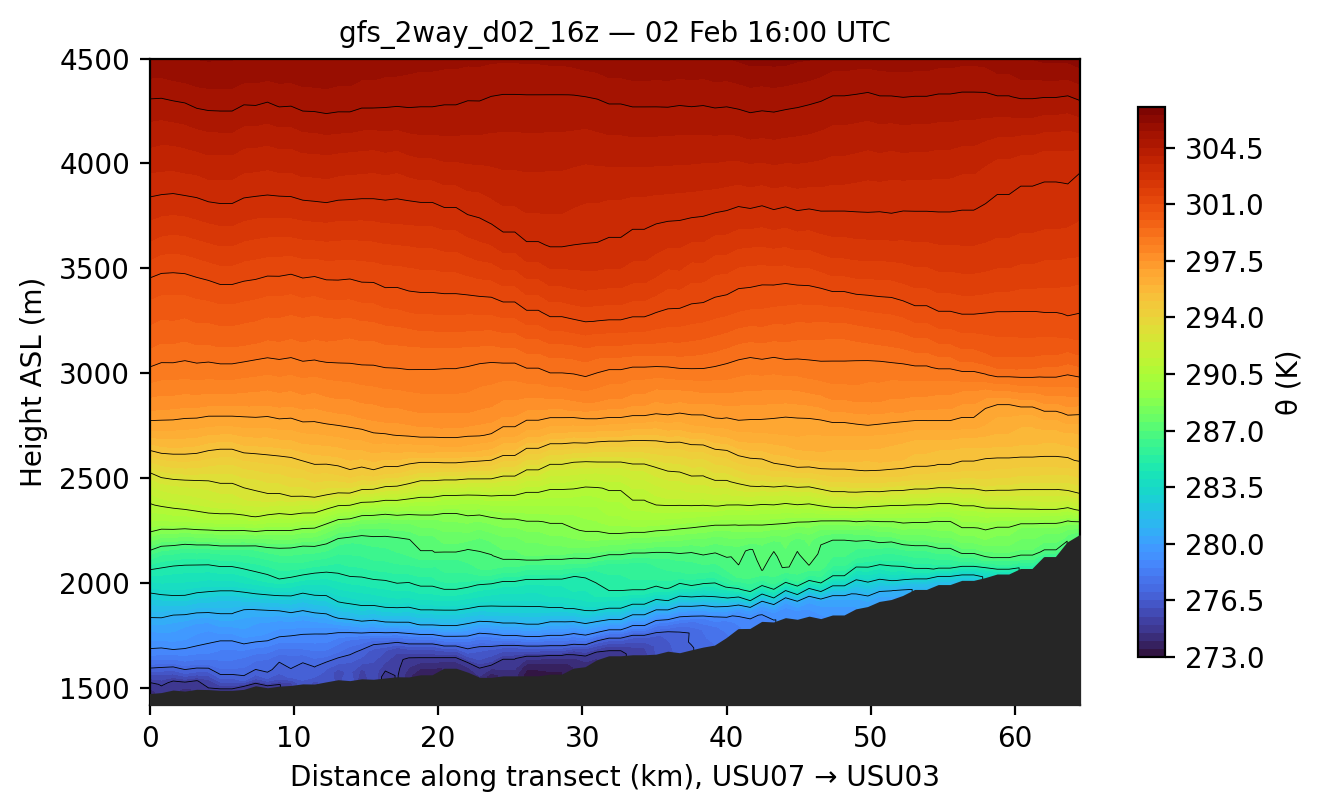
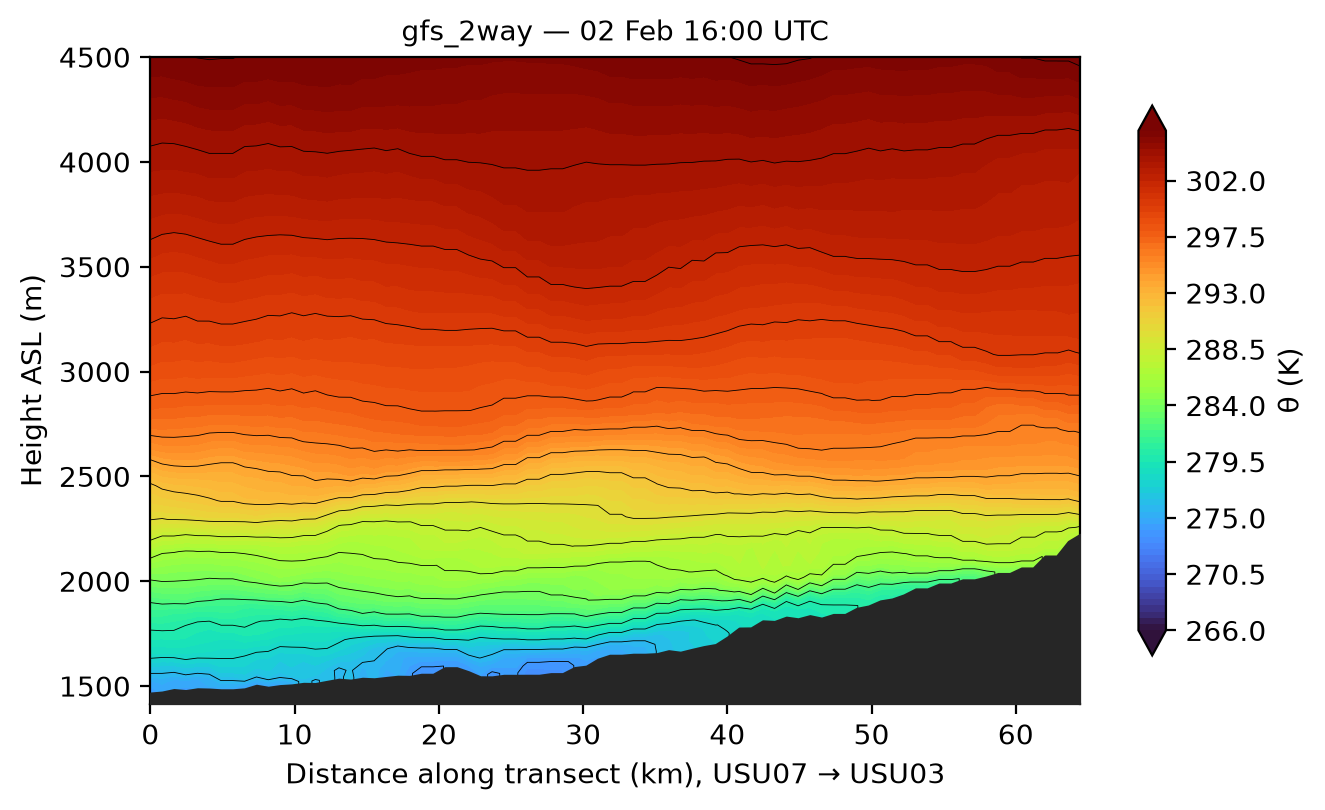
figures: add controlled vertical diagnostics
Record shared-scale sections, a GFS-minus-NAM section, X9 fine-terrain feedback configuration, and the figure decision longlist.

diff --git a/verification/scripts/plot_wrf_cross_sections.py b/verification/scripts/plot_wrf_cross_sections.py
@@ -88,7 +88,9 @@ def transect_cells(xlat, xlon, p0, p1, n=N_TRANSECT) -> tuple[list, np.ndarray]:
     return cells, km
 
 
-def fig_xsect(files, cells, km, run, want_times, out_dir, endpoints) -> None:
+def transect_panels(files, cells, want_times) -> list:
+    """[(t, theta_slice, z_slice, terrain)] along the transect for each wanted time.
+    theta/z slices are (nz+1, ncol) with a surface row prepended (see pad_surface)."""
     panels = []
     for f in files:
         ds = xr.open_dataset(f, decode_times=False)
@@ -103,6 +105,21 @@ def fig_xsect(files, cells, km, run, want_times, out_dir, endpoints) -> None:
                 th_s, z_s = pad_surface(th_s, z_s, terr)
                 panels.append((t, th_s, z_s, terr))
         ds.close()
+    return panels
+
+
+def theta_levels(auto_min, auto_max, theta_min, theta_max) -> tuple[np.ndarray, str]:
+    """0.5 K contour levels. With an explicit (theta_min, theta_max) the scale is
+    FIXED so figures from different runs are directly comparable (extend='both'
+    keeps out-of-range θ visible); otherwise each figure auto-scales to its data."""
+    if theta_min is not None and theta_max is not None:
+        return np.arange(theta_min, theta_max + 0.5, 0.5), "both"
+    return np.arange(np.floor(auto_min), np.ceil(auto_max) + 0.5, 0.5), "neither"
+
+
+def fig_xsect(files, cells, km, run, want_times, out_dir, endpoints,
+              theta_min=None, theta_max=None) -> None:
+    panels = transect_panels(files, cells, want_times)
     if not panels:
         raise SystemExit(f"none of the requested times found; got e.g. {want_times[:2]}")
 
@@ -112,10 +129,10 @@ def fig_xsect(files, cells, km, run, want_times, out_dir, endpoints) -> None:
                              sharex=True, sharey=True, squeeze=False)
     vmin = min(p[1][p[2] < Z_TOP].min() for p in panels)
     vmax = max(p[1][p[2] < Z_TOP].max() for p in panels)
-    levels = np.arange(np.floor(vmin), np.ceil(vmax) + 0.5, 0.5)
+    levels, extend = theta_levels(vmin, vmax, theta_min, theta_max)
     km2d = np.broadcast_to(km, panels[0][1].shape)
     for ax, (t, th_s, z_s, terr) in zip(axes.flat, panels):
-        cf = ax.contourf(km2d, z_s, th_s, levels=levels, cmap="turbo")
+        cf = ax.contourf(km2d, z_s, th_s, levels=levels, cmap="turbo", extend=extend)
         ax.contour(km2d, z_s, th_s, levels=levels[::4], colors="k", linewidths=0.3)
         ax.fill_between(km, 0, terr, color="0.15", zorder=3)
         ax.set_ylim(terr.min() - 50, Z_TOP)
@@ -133,7 +150,58 @@ def fig_xsect(files, cells, km, run, want_times, out_dir, endpoints) -> None:
     print(f"wrote {out}")
 
 
-def fig_timeheight(files, cell, run, station, out_dir) -> None:
+def fig_xsect_diff(files_a, files_b, cells, km, run_a, run_b, want_times, out_dir,
+                   endpoints, dtheta_max=None) -> None:
+    """θ(run_a) − θ(run_b) on the transect. Each run's columns are interpolated to a
+    common height grid before differencing, so runs with slightly different level
+    heights (or terrain) difference correctly; below-ground cells are masked."""
+    pa = {t: (th, z, terr) for t, th, z, terr in transect_panels(files_a, cells, want_times)}
+    pb = {t: (th, z, terr) for t, th, z, terr in transect_panels(files_b, cells, want_times)}
+    times = [t for t in want_times if t in pa and t in pb]
+    if not times:
+        raise SystemExit(f"no shared times between runs; a={list(pa)[:2]} b={list(pb)[:2]}")
+    zc = np.arange(min(pa[times[0]][2].min(), pb[times[0]][2].min()), Z_TOP + 1, 25.0)
+    diffs = []
+    for t in times:
+        th_a, z_a, terr_a = pa[t]
+        th_b, z_b, terr_b = pb[t]
+        ground = np.maximum(terr_a, terr_b)
+        d = np.full((zc.size, th_a.shape[1]), np.nan)
+        for c in range(th_a.shape[1]):
+            col = (np.interp(zc, z_a[:, c], th_a[:, c], left=np.nan, right=np.nan)
+                   - np.interp(zc, z_b[:, c], th_b[:, c], left=np.nan, right=np.nan))
+            col[zc < ground[c]] = np.nan
+            d[:, c] = col
+        diffs.append((t, d, ground))
+    amax = float(np.ceil(dtheta_max or np.nanmax(np.abs(np.concatenate(
+        [d.ravel() for _, d, _ in diffs])))))
+    levels = np.linspace(-amax, amax, 25)
+    ncol = min(len(diffs), 2)
+    nrow = -(-len(diffs) // ncol)
+    fig, axes = plt.subplots(nrow, ncol, figsize=(7.5 * ncol, 4.2 * nrow),
+                             sharex=True, sharey=True, squeeze=False)
+    km2d = np.broadcast_to(km, (zc.size, km.size))
+    zc2d = np.repeat(zc[:, None], km.size, axis=1)
+    for ax, (t, d, ground) in zip(axes.flat, diffs):
+        cf = ax.contourf(km2d, zc2d, d, levels=levels, cmap="RdBu_r", extend="both")
+        ax.contour(km2d, zc2d, d, levels=[0], colors="k", linewidths=0.4)
+        ax.fill_between(km, 0, ground, color="0.15", zorder=3)
+        ax.set_ylim(ground.min() - 50, Z_TOP)
+        ax.set_title(f"{run_a} − {run_b} — {t:%d %b %H:%M} UTC", fontsize=10)
+    for ax in axes.flat[len(diffs):]:
+        ax.set_visible(False)
+    for ax in axes[:, 0]:
+        ax.set_ylabel("Height ASL (m)")
+    for ax in axes[-1, :]:
+        ax.set_xlabel(f"Distance along transect (km), {endpoints[0]} → {endpoints[1]}")
+    fig.colorbar(cf, ax=axes, shrink=0.85, label=f"Δθ (K), {run_a} − {run_b}")
+    out = out_dir / f"wrf_xsect_theta_diff_{run_a}_minus_{run_b}.png"
+    fig.savefig(out, dpi=200, bbox_inches="tight")
+    plt.close(fig)
+    print(f"wrote {out}")
+
+
+def fig_timeheight(files, cell, run, station, out_dir, theta_min=None, theta_max=None) -> None:
     j, i = cell
     ts, profs, zs = [], [], []
     for f in files:
@@ -153,8 +221,8 @@ def fig_timeheight(files, cell, run, station, out_dir) -> None:
     t2d = np.broadcast_to(t_arr, th.shape)
 
     fig, ax = plt.subplots(figsize=(9, 4.2))
-    levels = np.arange(np.floor(th[z < Z_TOP].min()), np.ceil(th[z < Z_TOP].max()) + 0.5, 0.5)
-    cf = ax.contourf(t2d, z, th, levels=levels, cmap="turbo")
+    levels, extend = theta_levels(th[z < Z_TOP].min(), th[z < Z_TOP].max(), theta_min, theta_max)
+    cf = ax.contourf(t2d, z, th, levels=levels, cmap="turbo", extend=extend)
     ax.contour(t2d, z, th, levels=levels[::4], colors="k", linewidths=0.3)
     ax.set_ylim(z.min() - 50, Z_TOP)
     ax.set_ylabel("Height ASL (m)")
@@ -181,7 +249,21 @@ def main() -> None:
                     help="wrfout timestamps (UTC, YYYY-MM-DD_HH:MM:SS) for the slice panels")
     ap.add_argument("--out-dir", type=Path, default=None,
                     help="default: <wrf-dir>/figures")
+    ap.add_argument("--theta-min", type=float, default=None,
+                    help="fixed lower θ (K) for a shared color scale across runs; "
+                         "pair with --theta-max (else each figure auto-scales, so "
+                         "cross-run color comparison is only qualitative)")
+    ap.add_argument("--theta-max", type=float, default=None,
+                    help="fixed upper θ (K) for the shared color scale")
+    ap.add_argument("--diff-wrf-dir", default=None,
+                    help="second run's wrfout dir; if set, write θ(run)−θ(diff) on the "
+                         "transect instead of the single-run x-section + time-height")
+    ap.add_argument("--diff-run-label", default=None, help="label for the second (subtracted) run")
+    ap.add_argument("--dtheta-max", type=float, default=None,
+                    help="fixed ±Δθ (K) scale for the difference figure (else symmetric auto)")
     args = ap.parse_args()
+    if (args.theta_min is None) != (args.theta_max is None):
+        raise SystemExit("--theta-min and --theta-max must be given together")
 
     stations = load_stations(args.stations)
     for stid in (*args.transect, args.time_height_station):
@@ -201,10 +283,17 @@ def main() -> None:
 
     cells, km = transect_cells(xlat, xlon, stations[args.transect[0]], stations[args.transect[1]])
     print(f"transect {args.transect[0]} -> {args.transect[1]}: {km[-1]:.1f} km, {len(cells)} columns")
-    fig_xsect(files, cells, km, args.run_label, want, out_dir, args.transect)
-
-    th_cell = nearest_cell(xlat, xlon, *stations[args.time_height_station])
-    fig_timeheight(files, th_cell, args.run_label, args.time_height_station, out_dir)
+    if args.diff_wrf_dir:
+        files_b = open_run(args.diff_wrf_dir, args.glob)
+        fig_xsect_diff(files, files_b, cells, km, args.run_label,
+                       args.diff_run_label or "runB", want, out_dir, args.transect,
+                       dtheta_max=args.dtheta_max)
+    else:
+        fig_xsect(files, cells, km, args.run_label, want, out_dir, args.transect,
+                  theta_min=args.theta_min, theta_max=args.theta_max)
+        th_cell = nearest_cell(xlat, xlon, *stations[args.time_height_station])
+        fig_timeheight(files, th_cell, args.run_label, args.time_height_station, out_dir,
+                       theta_min=args.theta_min, theta_max=args.theta_max)
 
 
 if __name__ == "__main__":

diff --git a/verification/figures/evidence-longlist.md b/verification/figures/evidence-longlist.md
@@ -1,0 +1,105 @@
+# Evidence longlist — one exhibit per experimental decision
+
+**Purpose.** A *superset* of the paper's figures: for **every experimental decision** we made
+(each run, each controlled comparison), name **at least one exhibit** the team can look at to
+decide whether that lever earns a place in the manuscript — *including the decision to leave a
+run out*. This is deliberately "too much"; promotion to `main.tex` is gated separately by
+`figures/MANIFEST.md` (status `promoted` only) and the `comparison-inventory.csv` role column.
+
+**Authorities (do not restate their contents here):** run identity → `verification/provenance/run-inventory.csv`;
+what a comparison may support → `verification/provenance/comparison-inventory.csv`; figure coverage/paths →
+`verification/figures/archive-inventory.md` (+ `chpc-figure-inventory-2026-07-10.md`); promotable files →
+`verification/figures/manifest.csv`. Archive compare root (`CMP`):
+`…/lawson-group6/jrlawson/wrf_archive/pelican2013_pub_figures/compare/`.
+
+**Exhibit tiers.**
+- **native** = manuscript-style candidate in `verification/figures/candidates/` (promotable).
+- **engine** = 300-DPI figure-engine quicklook under `CMP/diff_*/` (exists, but *not* manuscript-native; a rougher exhibit).
+- **none** = not plotted yet → a **gap** (see §3).
+
+**Disposition legend:** 🟩 promote-candidate · 🟦 supplement · 🟨 discussion-only · 🟥 confounded — do **not** plot as a clean difference · ⬛ render-the-gap.
+
+---
+
+## §1 Decision ledger — lever → comparison → best exhibit → disposition
+
+| # | Decision / lever | CMP | Best exhibit that EXISTS | Tier | Gap? | Disposition |
+|---|---|---|---|---|---|---|
+| 1 | **Driving IC: GFS vs NAM (two-way)** | CMP01 | θ x-sections `wrf_xsect_theta_{gfs,nam}_2way_d02_16z` (now shared scale); `wrf_upper_{500,700}hPa_gfs_minus_nam2way`; `wrf_dtheta/t2…gfs2way_vs_nam2way`; `CMP/diff_gfs_nam/` (21) | native+engine | — | 🟩 **primary result** — strongest coverage |
+| 2 | **Driving IC: GFS vs NAM (one-way)** | CMP02 | `wrf_retention_ventilation` (4-run); `CMP/diff_gfs_nam_oneway/` (21) | engine (spatial) | native diff **missing** | 🟩 promote + ⬛ render native X10−X3 diff/x-section |
+| 3 | **Nest feedback, NAM (1-way vs 2-way)** | CMP03 | `wrf_{t2,dtheta}…nam1way_vs_nam2way`; `wrf_upper_{500,700}…nam1way_minus_nam2way`; θ x-sect `nam_1way`↔`nam_2way` (shared); `CMP/diff_feedback/` (21) | native+engine | — | 🟦 secondary (near-null) — supplement/Results |
+| 4 | **Nest feedback, GFS (1-way vs 2-way)** | CMP04 | `wrf_retention…`; `gfs-feedback-factorial-2026-07-10.md`; `CMP/diff_feedback_gfs/` (21) | engine (spatial) | native diff **missing** | 🟦 supplement + ⬛ render native X6−X10 |
+| 5 | **Forcing × feedback interaction** | CMP05 | `wrf_retention…`; `retention_interaction_summary.csv` | native | — | 🟦 supplement (descriptive only) |
+| 6 | **Feedback at FINE terrain (X9−X0)** | CMP06 | **nothing** — X9 has quicklooks only, no full-figures, not a TOML run key | none | **whole run** | ⬛ **highest-value gap** — cleaner feedback test than CMP03 (matches control terrain) |
+| 7 | **Slope/shading radiation (X1−X0)** | CMP07 | `CMP/diff_slope_shading/` (7, surface only) | engine | native **missing**; sections **missing** | 🟨 discussion; ⬛ render if promoted |
+| 8 | **PBL/sfclay scheme MYJ-Eta vs YSU-MM5 (X2−X1)** | CMP08 | `CMP/diff_myj_eta/` (21) | engine | native **missing** | 🟨 discussion — ⚠ PBLH is scheme-dependent (C19); needs AGL/TKE-aware recompute before any claim |
+| 9 | **Terrain source: default vs fine 3-arcsec (X3−X0)** | CMP09 | `CMP/diff_terrain_fine/` (**42 — over-count, likely stale**) | engine | native **missing**; data-quality flag | 🟨 discussion — verify/clean the over-count first |
+| 10 | **Terrain source: default vs coarse 5-arcmin (X3−X4)** | CMP10 | `CMP/diff_terrain/` (7) | engine | native **missing** | 🟨 discussion — ⚠ X4 archive-name provenance caveat |
+| 11 | **Terrain source: fine vs coarse, widest bracket (X0−X4)** | CMP11 | `CMP/diff_terrain_res/` (21, "headline") | engine | native **missing** | 🟨 discussion/supplement — ⚠ resolve X4 provenance |
+| 12 | **Resolution ladder 1 km / 333 m / 111 m (X7/X0/X8)** | CMP12 | — (no valid difference) | none | — | 🟥 **do NOT plot as a resolution difference** — confounded by init time, forecast age, domain count, levels, cadence. Exhibit = the confound table + a 3-panel *domains/terrain* figure labelled "not controlled" |
+| 13 | **Driving heritage / SIP nudged reference** | CMP13 | `wrf_xsect_theta_trang_ref`, `…_trang_anlnudge_jan17`, time-heights | native (context) | identity unresolved | 🟨 discussion-only — label "un-nudged SIP-era, config after Tran 2018", never "the Tran 2018 run" |
+
+**Coverage tally:** 13 decisions — **2** paper-grade (CMP01, CMP03), **2** paper-grade-but-native-spatial-diff-missing (CMP02, CMP04), **5** engine-only needing a native render (CMP07–11), **1** whole-run gap (CMP06), **1** confounded/do-not-plot (CMP12), **1** context-only (CMP13), plus the 4-run retention that serves CMP01–05.
+
+---
+
+## §2 Per-experiment figure completeness (X0–X10)
+
+| X | run | full-figure set (63) | manuscript-native candidates | keep/drop for paper |
+|---|---|---|---|---|
+| X0 | NAM 1-way fine-terrain **control** | ✓ | θ x-sect/time-height (native); transect locator | 🟩 control + **Fig 1** (domain) |
+| X1 | +slope/shading | ✓ | — (engine diff only) | 🟨 discussion |
+| X2 | +MYJ/Eta | ✓ | — (engine diff only) | 🟨 discussion (C19 caveat) |
+| X3 | NAM 1-way default | ✓ | native x-sect/time-height + upper/t2/dtheta diffs | 🟩 primary (one-way NAM leg) |
+| X4 | NAM 1-way coarse terrain | ✓ | — | 🟨 discussion (provenance caveat) |
+| X5 | NAM 2-way default | ✓ | native x-sect/time-height + diffs | 🟩 primary |
+| X6 | GFS 2-way default | ✓ | native x-sect/time-height + diffs | 🟩 primary |
+| X7 | NAM 2-way **1 km 24 h** | ✓ (216) | — | 🟥 confounded resolution rung — context only |
+| X8 | NAM 1-way **111 m 50-lev** | ~86 non-standard | — | ⬛/🟥 fine rung; standardize before use; resolution claim confounded |
+| X9 | NAM 2-way fine-terrain | ✗ quicklooks only | — | ⬛ **render** — unlocks CMP06 |
+| X10 | GFS 1-way default | ✓ | `wrf_retention` (4-run) | 🟩 primary (one-way GFS leg) |
+
+---
+
+## §3 Gaps to plot — prioritized (the "not yet plotted, and important" set)
+
+1. **⬛ X9 full-figure set + X9−X0 difference (CMP06).** The only *controlled* feedback test at the
+   control's own fine terrain. Prereq: add a `[runs.nam_twoway_terrain3s]` key to
+   `verification/config/figures/pelican2013.toml`, then `/wrf-full-figures pelican2013, case
+   nam_twoway_terrain3s, latest run, all figures`, and add an `X9−X0` `[[differences]]` block.
+2. **⬛ Native θ *difference* cross-sections + time-heights.** `plot_wrf_cross_sections.py` now takes a
+   fixed θ scale but still plots one run at a time. Add a two-run **difference** mode (GFS−NAM,
+   1-way−2-way) — the inventory's prescribed "GFS−NAM difference" exhibit that no native figure yet
+   provides. One code change unlocks CMP01/02/03/04 native vertical diffs.
+3. **⬛ Native spatial diffs for CMP02 & CMP04** (X10−X3, X6−X10) to match the CMP01/CMP03 upper-air set.
+4. **🟦 Common-AGL / low-layer zoom** of the x-sections (the 4500 m ceiling compresses the pool);
+   a 0–1000 m AGL companion reads the inversion far better.
+5. **🟨 One native exhibit each for CMP07–CMP11** *only if* that lever is promoted from discussion —
+   don't pre-render all five at manuscript quality.
+
+**Variables/axes still barely exploited** (for the "more variables" instinct): `snow`/`snowh`
+fields (near-static, low value), `wspd10` ventilation maps, extra pressure levels (850/600 hPa),
+and the **p600 advection** upper-air family exist in the engine sets but have no native exhibit.
+Treat these as reviewer-reserve, not first-round.
+
+---
+
+## §4 Pushback — where "too much" must stop
+
+- **Confounded comparisons must not become clean-looking difference plots.** CMP12 (the
+  1 km→333 m→111 m ladder) mixes ≥6 uncontrolled axes; a tidy "resolution difference" panel would
+  read as a result it cannot support. Its honest exhibit is the confound list + a labelled domains
+  figure. Same discipline for any X7/X8 pairing.
+- **Provenance gates a figure, not polish.** X4 (terrain5m) carries an archive-name discrepancy and
+  `diff_terrain_fine` is an unexplained 42-vs-21 over-count — resolve both before either terrain
+  lever is quoted, however good the picture looks.
+- **Scheme-dependent diagnostics need scheme-aware reading.** CMP08 PBLH/TKE differ *by construction*
+  between MYJ and YSU (C19); a raw PBLH difference map invites a wrong inference.
+- **Context ≠ result.** The Trang/SIP and January-baseline exhibits (11 `context` rows in the manifest)
+  are for Discussion framing only — different episode/config/identity; never rank February runs with them.
+- **Combine before promoting.** Prefer GFS|NAM as two panels of *one* figure on the shared scale, and
+  1-way−2-way as a difference panel, over four standalone plots. Push the rest to Supplement.
+
+*Net:* the frozen paper stays at the CMP01/CMP03 core (+retention, +domain Fig 1). Everything
+below that line is a team-discussion exhibit or reviewer reserve, catalogued here so a "why didn't
+you test X?" question has a picture to point at — not a mandate to grow the paper.

diff --git a/verification/figures/chpc-figure-inventory-2026-07-10.md b/verification/figures/chpc-figure-inventory-2026-07-10.md
@@ -236,6 +236,14 @@ Common record for the first six:
 - Each absolute figure currently chooses its own θ range, so color comparisons
   across runs are qualitative only.  The 4,500 m ASL ceiling compresses the
   shallow cold pool.
+- **Update 2026-07-11 (JRL + Opus):** both caveats in the two bullets above are now
+  addressed. `plot_wrf_cross_sections.py` gained `--theta-min/--theta-max`; the
+  GFS/NAM-2way and NAM-1way θ x-sections + QRS time-heights were re-rendered on a
+  **shared 266–306 K scale** (so cross-run color is now quantitative), and all 29
+  previously-unregistered `candidates/` PNGs now carry `manifest.csv` rows
+  (statuses: diagnostic/rejected/superseded/context). Decision-by-decision exhibit
+  map: `evidence-longlist.md`. The frame-zero `wrf_xsect_theta_*_d02.png` remain
+  **rejected** (init artifact); prefer the `_16z` shared-scale versions.
 
 | File | Time/spin-up and question | Rough visual reading | Alternative/limitation | Required rerender | Status |
 |---|---|---|---|---|---|
